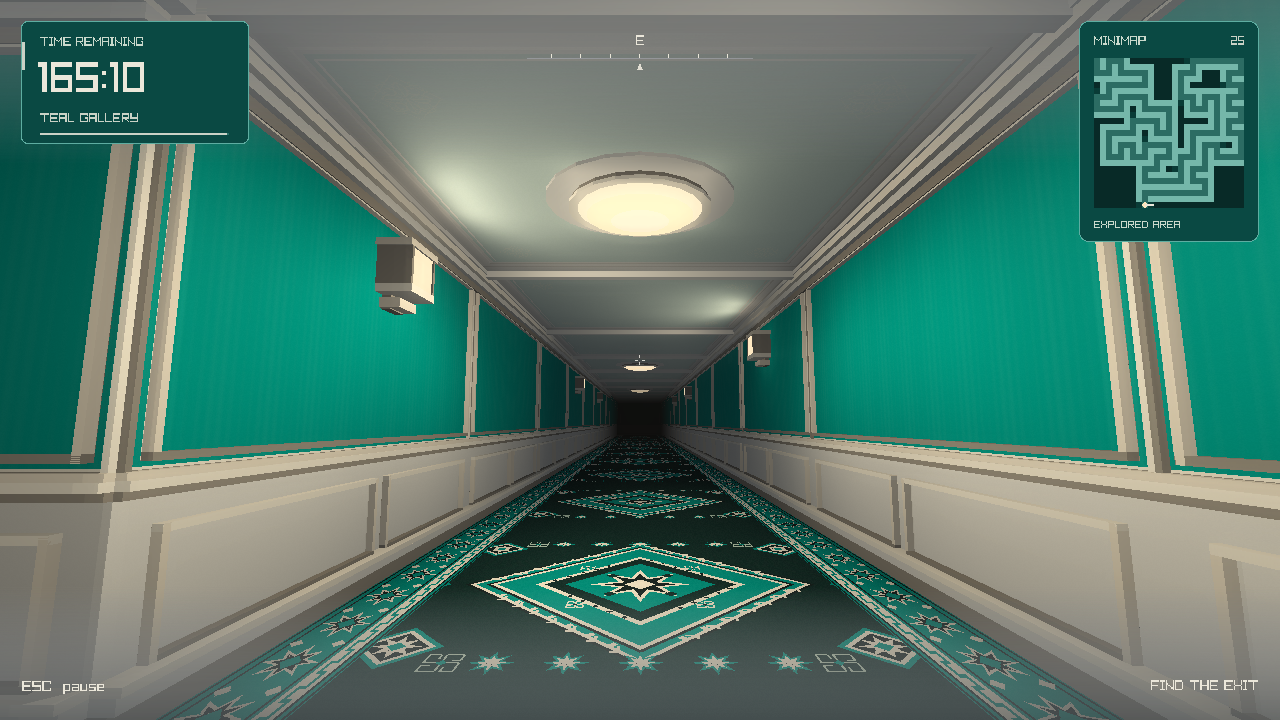
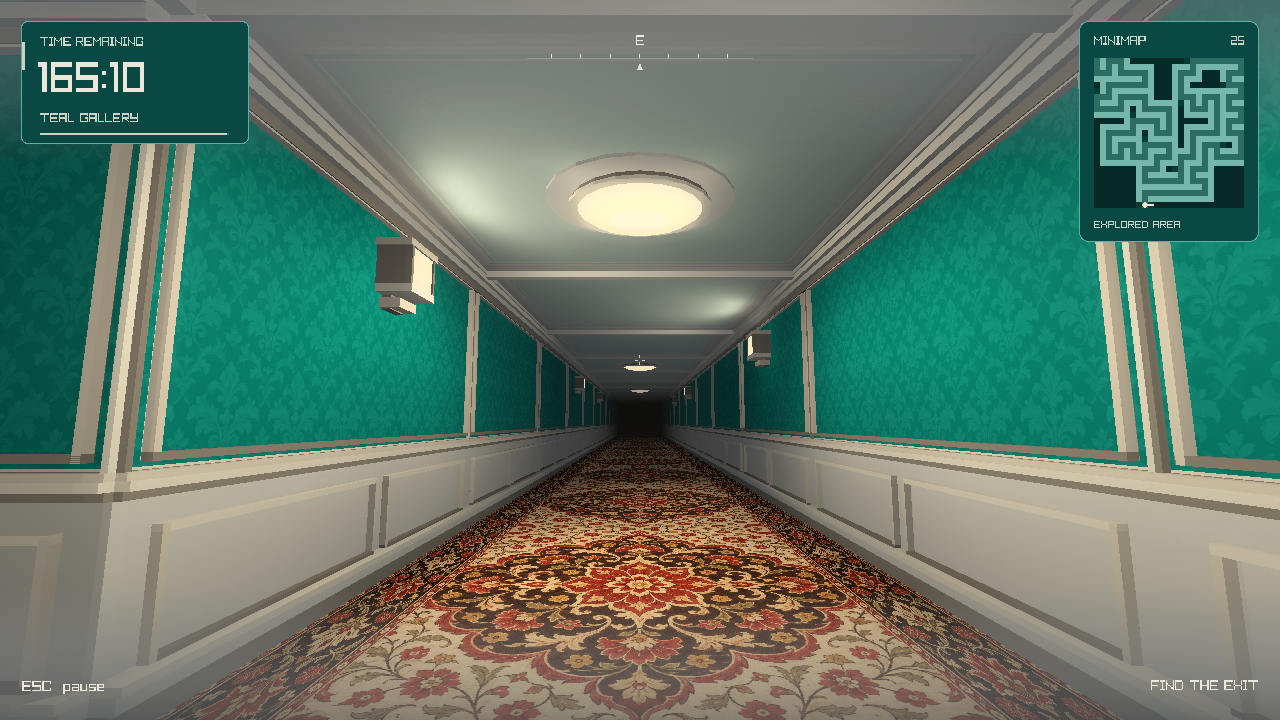
Update game previews and architecture notes

Changed region(s): [[0.125, 0.6111, 0.875, 1.0]]

diff --git a/docs/CODE_STYLE.md b/docs/CODE_STYLE.md
@@ -4,15 +4,15 @@
 
 Schema creation and text-file imports live in `DatabaseMigrations.cpp`. Reusable SQL queries live in `DatabaseQueries.cpp`, and the scoped SQLite connection, statement and transaction owners live in `Sqlite.h`. The runtime database API accepts an alternative path for isolated tests. The database filename, schema and legacy migration markers remain compatible with existing saves.
 
-`Renderer` draws world geometry and lighting. `RendererExit.cpp` draws the exit door in the normal material and emissive lighting passes. `HudRenderer` draws the HUD and minimap after the 3D pass. Embedded GLSL lives in `MazeShaders.h`; no external shader files are required at runtime. `Textures` is a move-only GPU resource owner. Borrowed handles are exposed through accessors for drawing, while destruction and move assignment release owned resources automatically. Keep resource owners inside the graphics context's lifetime.
+`Renderer` draws world geometry and lighting. `RendererExit.cpp` draws the exit door in the normal material and emissive lighting passes. `HudRenderer` draws the HUD and minimap after the 3D pass. Embedded GLSL lives in `MazeShaders.h` and `MazeLightingShader.h`; no external shader files are required at runtime. `Textures` is a move-only GPU resource owner. Borrowed handles are exposed through accessors for drawing, while destruction and move assignment release owned resources automatically. Keep resource owners inside the graphics context's lifetime.
 
-`CorridorStyle` maps the active maze palette to plaster, fabric panels, metal trim and carpet yarn. Upper walls have quiet vertical fabric grain, fine raised frames and a molded chair rail above inset lower panels. The carpet uses large geometric medallions, stepped hooks and a continuous woven border. A 2048-by-1024 atlas contains a 1024-pixel field and a separate border strip; mipmaps and anisotropic filtering preserve the pattern at grazing angles. `CarpetLayout` keeps atlas regions and the border width aligned with floor mapping. Field and border patches meet without overlapping, with miters at inside and outside corners. Shallow relief is drawn only near the camera's view. Frosted lanterns and round ceiling bowls use the existing lamp selection and lighting. Maze layout, collision, gravity and palette selection remain unchanged.
+`CorridorStyle` supplies the gilt molding and lighting roles for the loading-screen-inspired wall design. Upper walls use bronze damask with carved gold corner ornaments; dark marble wainscoting sits below them. Separate honey marble covers 3D pilaster fronts and returns with a consistent world-space texture density. Stepped capitals and bases, rails and frames supply the shallow relief. Twin flared opal-glass cups on curved brass arms use the existing light selection and emission passes. The marble material shares `Textures` ownership, move and lifetime rules. The Persian carpet retains its cream, crimson and near-black pigments, with a scalloped floral medallion and continuous floral border. Its full-color atlas is cached on the CPU, then uploaded into each material set; lamp lighting shades the weave naturally. A 2048-by-1024 atlas contains a 1024-pixel field and a separate border strip; mipmaps and anisotropic filtering preserve the pattern at grazing angles. `CarpetLayout` keeps atlas regions and border width aligned with floor mapping. Field and border patches meet without overlapping, with miters at inside and outside corners. Architectural relief is drawn only near the camera's view. Maze layout, collision and gravity remain unchanged.
 
 The atmosphere vertex shader receives world-space vertices from rlgl's immediate-mode batch. Its CPU-side primitive transforms are already baked into those vertices; applying `matModel` again would corrupt lighting when the buffer fills during a transformed primitive. GPU checks cover both ordinary draws and automatic full-batch submissions.
 
-The atmosphere shader evaluates up to sixteen nearby wall and ceiling fixtures per fragment, using rectangular light sources and smooth distance falloff. Packed maze-wall masks block light between corridors and are refreshed when the maze size or seed changes. The light list follows the camera; material lighting and emissive fixtures remain separate passes. Ambient illumination stays low enough to show the fixtures' light pools while retaining readable unlit passages.
+The atmosphere shader evaluates up to sixteen nearby wall and ceiling fixtures in linear color, using rectangular emitters and smooth finite-range inverse-square attenuation. Explicit material uniforms provide roughness, metalness, relief height, clear-coat strength and the wall/wainscoting layout. GGX distribution, correlated Smith visibility and Schlick Fresnel give stone, gold, wallpaper and wool distinct responses. Material changes flush the preceding geometry before updating uniforms. Packed maze-wall masks block light between corridors and are refreshed when maze size or seed changes. The light list follows the camera; material lighting and emissive fixtures remain separate passes.
 
-Finite diffuser samples soften the shadow edges, while small palette-tinted bounce and satin highlights give the lower wall panels depth. Wallpaper and carpet remain mostly matte. A faint analytical haze follows the emitting direction of each lamp; its visible air samples use the same wall masks so beams cannot shine into neighboring rooms. `Bloom` draws the world into a reusable full-resolution target, then extracts and blurs highlights in two half-resolution passes. Composition happens before the HUD and menus so text stays crisp. Targets are replaced on resize and released inside the graphics context; unavailable shaders or targets fall back to the normal world pass.
+Five weighted diffuser samples soften brighter shadow edges. Analytic contact/corner occlusion, palette-tinted bounce and local source reflections add depth. Texture derivatives supply restrained relief with distance fading and specular filtering. Wallpaper and carpet remain rough. A faint visibility-tested scattering term follows each fixture. `Bloom::begin(true)` draws linear scene radiance into a full-resolution RGBA16F target, then extracts and blurs highlights in two half-resolution RGBA16F passes. Composition adds restrained bloom, applies the filmic display curve and converts to sRGB before the HUD. Targets are reused, replaced on resize and released within the graphics context; direct rendering remains available when HDR is unavailable. The default `Bloom::begin()` keeps the previous sRGB composition behavior.
 
 Maze generation uses an explicitly seeded `std::mt19937`, independent of theme selection and decorative texture generation. To reproduce a loaded run, supply its seed and selected theme along with the same level parameters:
 
@@ -20,10 +20,14 @@ Maze generation uses an explicitly seeded `std::mt19937`, independent of theme s
 Game reproduced(size, duration, original.mode(), original.seed(), original.theme());
 ```
 
-Without a supplied theme, the seed also determines the default palette. The application owns a `RunThemeSelector`, which wraps `MazeThemeSelector` for non-repeating random themes across new runs. Supplying the same selector seed reproduces its entire sequence. No process-wide `srand` setup is needed.
+`ActiveMazeTheme` in `src/data/MazeTheme.h` currently selects Grand Hotel for all normal application flows. Default `Game` construction uses the same theme regardless of seed or mode. Supplying a theme explicitly remains useful for material previews. Maze seeds still determine layouts independently of the fixed color palette.
 
-`RunThemeSelector` reserves the next theme for menu previews and consumes it when a run starts. Menu navigation preserves that choice; restarting can consume the next theme directly. The current run keeps its palette through generation, gameplay, pause and results. Returning to the menus previews the next run's theme.
+The application applies the curated theme at startup, on menu return and when starting or retrying a run. Player/level selection, generation, gameplay, pause and results all retain it. The optional seeded theme selectors remain available for future collections, but application navigation does not instantiate or consume them.
 
 `MenuTheme::colorsFor` derives all interface materials from a maze palette. `MenuTheme::apply` updates the live color references used by drawing helpers and their default arguments. Main-menu and background color aliases must remain references so existing screens update without reloading fonts or recreating their geometry. The HUD uses the same palette factory for its active run.
 
-The root `.clang-format` defines four-space indentation, a 100-column limit and consistent braces and spacing. Format edited C++ files before reviewing their diff. Existing explanatory comments remain above the code they describe.
+`MenuBackground` shares four connected corridor views, a grading shader and a reusable foreground target across menu screens. A weak cache retains no GPU resources after the screens are destroyed. Wall fabric takes the curated warm palette while carpet reds, gold, marble and lamp highlights retain the artwork's lighting. Perspective yaw, dolly and phased scene overlap carry the camera between the entrance, player junction, right-hand gallery, left-hand vestibule and mirrored Controls branch. Cover cropping fills every window shape, and the centered T1 wordmark is stretched horizontally from oversampled glyphs.
+
+`MenuJourney` owns pure route and timing state. Application defers navigation during a 0.9-second trip, fades source/target UI independently of the corridor, and ignores repeated input until arrival. Back from level selection returns to the player junction with the turn reversed. New-player/custom choices and the Controls diagram move within their current stop over 0.38 seconds; cancelling restores that view without accumulating zoom. A selected run is created before travel to the vestibule, but neither generation nor gameplay advances during the trip. Its first travel frame discards stale frame time from material preparation; the full mandatory 4.5-second generation preview starts after arrival. `Build.props` copies all `assets/*.png` artwork beside the game and core-test executables; packaged paths precede working-directory fallbacks.
+
+Format edited C++ files before reviewing their diff. A local `.clang-format` can define formatting preferences and is ignored by Git. Existing explanatory comments remain above the code they describe.
